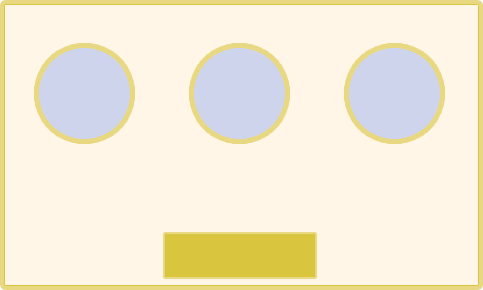
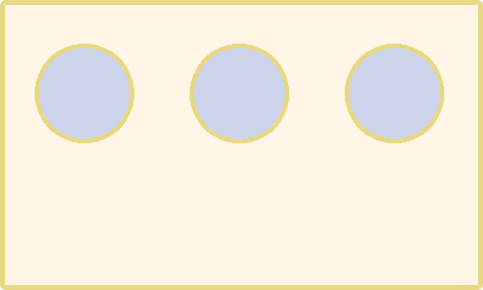
UI updates
finished putting in inventory and brewing panel ui

diff --git a/Hocus Potions/Assets/Scripts/Cauldron.cs b/Hocus Potions/Assets/Scripts/Cauldron.cs
@@ -191,16 +191,19 @@ public class Cauldron : MonoBehaviour {
                 switch (i) {
                     case 0:
                         first.sprite = null;
+                        first.GetComponent<Image>().enabled = false;
                         first.GetComponentInChildren<CanvasGroup>().alpha = 0;
                         rl.brewingIngredients[i] = null;
                         break;
                     case 1:
                         second.sprite = null;
+                        second.GetComponent<Image>().enabled = false;
                         second.GetComponentInChildren<CanvasGroup>().alpha = 0;
                         rl.brewingIngredients[i] = null;
                         break;
                     case 2:
                         third.sprite = null;
+                        third.GetComponent<Image>().enabled = false;
                         third.GetComponentInChildren<CanvasGroup>().alpha = 0;
                         rl.brewingIngredients[i] = null;
                         break;

diff --git a/Hocus Potions/Assets/Scripts/InventoryManager.cs b/Hocus Potions/Assets/Scripts/InventoryManager.cs
@@ -173,6 +173,7 @@ public class InventoryManager : MonoBehaviour, IBeginDragHandler, IDragHandler, 
                 }
             } else {
                 ings[i] = temp;
+                slot.GetComponent<Image>().enabled = true;
                 slot.sprite = temp.image;
                 Text[] text = slot.GetComponentsInChildren<Text>();
                 text[0].text = temp.name;
